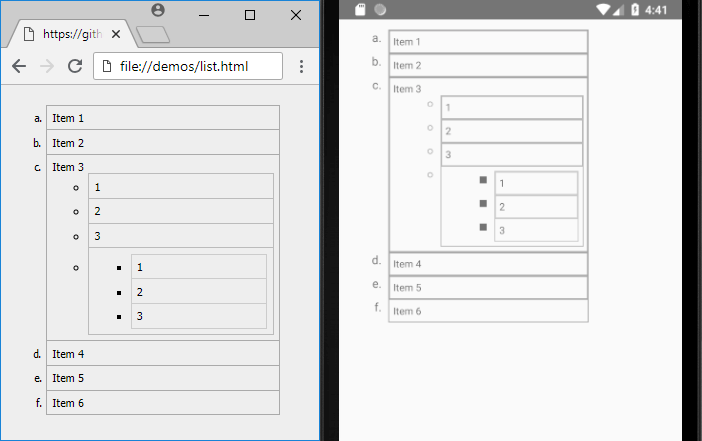
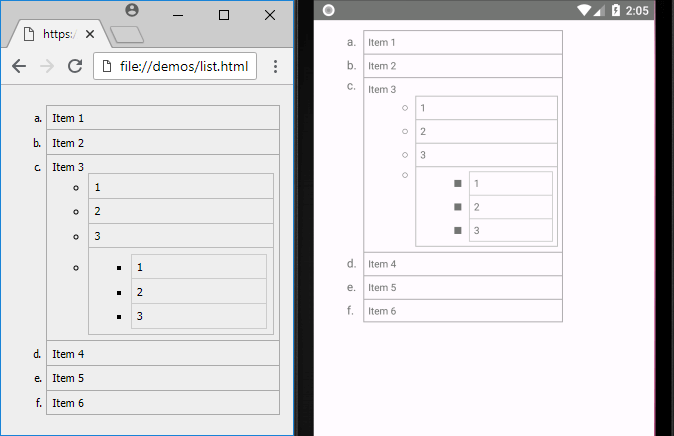
Baseline alignment detection for LinearLayout.

diff --git a/src/android/extension/widget/drawer.ts b/src/android/extension/widget/drawer.ts
@@ -1,4 +1,4 @@
-import { ExtensionResult, ObjectMap } from '../../../lib/types';
+import { ExtensionResult } from '../../../lib/types';
 import Extension from '../../../base/extension';
 import View from '../../view';
 import ViewList from '../../viewlist';
@@ -46,13 +46,9 @@ export default class Drawer extends Extension<T, U> {
         const node = (<T> this.node);
         node.depth = 0;
         node.documentRoot = true;
-        const optionsDrawer = Object.assign({}, this.options.drawer);
-        let menu = findNestedExtension(node, WIDGET_NAME.MENU);
-        if (menu != null) {
-            overwriteDefault(optionsDrawer, 'android', 'fitsSystemWindows', 'true');
-        }
-        const xml = controller.renderNodeStatic(VIEW_SUPPORT.DRAWER, node.depth, optionsDrawer, 'match_parent', 'match_parent', node, true);
-        if (menu != null) {
+        const options = Object.assign({}, this.options.drawer);
+        if (findNestedExtension(node, WIDGET_NAME.MENU) != null) {
+            overwriteDefault(options, 'android', 'fitsSystemWindows', 'true');
             this.createResourceTheme();
         }
         else {
@@ -62,8 +58,8 @@ export default class Drawer extends Extension<T, U> {
             navView.android('layout_gravity', optionsNavigation.android.layout_gravity);
             navView.android('layout_height', 'match_parent');
             navView.isolated = true;
-            menu = navView.element;
         }
+        const xml = controller.renderNodeStatic(VIEW_SUPPORT.DRAWER, node.depth, options, 'match_parent', 'match_parent', node, true);
         node.renderParent = true;
         node.excludeResource |= NODE_RESOURCE.FONT_STYLE;
         return { xml };
@@ -81,7 +77,7 @@ export default class Drawer extends Extension<T, U> {
         }
         const menu: string = optional(findNestedExtension(node, WIDGET_NAME.MENU), 'dataset.viewName');
         const headerLayout: string = optional(findNestedExtension(node, EXT_NAME.EXTERNAL), 'dataset.viewName');
-        const options: ObjectMap<any> = Object.assign({}, this.options.navigation);
+        const options: {} = Object.assign({}, this.options.navigation);
         if (menu !== '') {
             overwriteDefault(options, 'app', 'menu', `@menu/${menu}`);
         }

diff --git a/src/android/view.ts b/src/android/view.ts
@@ -479,6 +479,47 @@ export default class View extends Node {
         }
     }
 
+    public alignBaseline(nodes: T[]) {
+        let childIndex = -1;
+        nodes.some((item: T, index) => {
+            if (item.is(NODE_STANDARD.LINEAR) && item.android('baselineAlignedChildIndex') != null) {
+                childIndex = index;
+            }
+            else if (item.nodeType <= NODE_STANDARD.EDIT) {
+                switch (item.css('verticalAlign')) {
+                    case 'baseline':
+                    case 'sub':
+                    case 'super':
+                        if (childIndex === -1 && item.nodeType <= NODE_STANDARD.BUTTON) {
+                            childIndex = index;
+                        }
+                        break;
+                    default:
+                        childIndex = -1;
+                        return true;
+                }
+            }
+            return false;
+        });
+        if (childIndex !== -1) {
+            this.android('baselineAlignedChildIndex', childIndex.toString());
+            if (this.renderParent instanceof View && this.renderParent.is(NODE_STANDARD.LINEAR) && this.renderParent.horizontal) {
+                this.renderParent.alignBaseline(this.renderParent.renderChildren);
+            }
+        }
+    }
+
+    protected appendChild(node: T) {
+        super.appendChild(node);
+        switch (this.nodeName) {
+            case NODE_ANDROID.LINEAR:
+                if (this.horizontal) {
+                    this.alignBaseline(this.renderChildren);
+                }
+                break;
+        }
+    }
+
     get stringId() {
         return (hasValue(this.nodeId) ? `@+id/${this.nodeId}` : '');
     }

diff --git a/demos-dev/index.html b/demos-dev/index.html
@@ -565,18 +565,18 @@
                     </div>
                 </li>
                 <li>
-                    <label style="vertical-align: middle;">Conclusion:</label>
-                    <select name="person" class="null-allowed" style="width: 100px; vertical-align: middle;">
+                    <label>Conclusion:</label>
+                    <select name="person" class="null-allowed" style="width: 100px;">
                         <option value=""></option>
                         <option value="0">0</option>
                         <option value="1">1</option>
                     </select>
-                    <div style="vertical-align: middle;">
+                    <div>
                         <input id="c2" type="radio" name="personbirth" value="1" checked="checked" /><label for="c2">Birth</label>
                         <input id="c3" type="radio" name="personbirth" value="0" /><label for="c3">Death</label>
                         <input id="c4" type="checkbox" name="conclusionnone" value="1" /><label for="c4">None</label>
                     </div>
-                    <input type="button" value="Update" style="vertical-align: middle;" />
+                    <input type="button" value="Update" />
                 </li>
             </ul>
         </form>

diff --git a/demos/index.html b/demos/index.html
@@ -594,18 +594,18 @@
                     </div>
                 </li>
                 <li>
-                    <label style="vertical-align: middle;">Conclusion:</label>
-                    <select name="person" class="null-allowed" style="width: 100px; vertical-align: middle;">
+                    <label>Conclusion:</label>
+                    <select name="person" class="null-allowed" style="width: 100px;">
                         <option value=""></option>
                         <option value="0">0</option>
                         <option value="1">1</option>
                     </select>
-                    <div style="vertical-align: middle;">
+                    <div>
                         <input id="c2" type="radio" name="personbirth" value="1" checked="checked" /><label for="c2">Birth</label>
                         <input id="c3" type="radio" name="personbirth" value="0" /><label for="c3">Death</label>
                         <input id="c4" type="checkbox" name="conclusionnone" value="1" /><label for="c4">None</label>
                     </div>
-                    <input type="button" value="Update" style="vertical-align: middle;" />
+                    <input type="button" value="Update" />
                 </li>
             </ul>
         </form>

diff --git a/src/android/extension/widget/floatingactionbutton.ts b/src/android/extension/widget/floatingactionbutton.ts
@@ -20,8 +20,8 @@ export default class FloatingActionButton<T extends View> extends Button {
         const options = Object.assign({}, this.options[element.id]);
         const backgroundColor = parseRGBA(node.css('backgroundColor'), node.css('opacity'));
         overwriteDefault(options, 'android', 'backgroundTint', (backgroundColor.length > 0 ? `@color/${Resource.addColor(backgroundColor[0], backgroundColor[2])}` : '?attr/colorAccent'));
-        if (!includesEnum(node.excludeProcedure, NODE_PROCEDURE.ACCESSIBILITY)) {
-            overwriteDefault(options, 'android', 'focusable', 'true');
+        if (includesEnum(node.excludeProcedure, NODE_PROCEDURE.ACCESSIBILITY)) {
+            overwriteDefault(options, 'android', 'focusable', 'false');
         }
         let src = '';
         switch (element.tagName) {

diff --git a/src/base/node.ts b/src/base/node.ts
@@ -350,6 +350,10 @@ export default abstract class Node implements BoxModel {
         }
     }
 
+    protected appendChild(node: T) {
+        this.renderChildren.push(node);
+    }
+
     protected setDimensions() {
         const linear = this.linear;
         linear.width = linear.right - linear.left;
@@ -394,7 +398,7 @@ export default abstract class Node implements BoxModel {
 
     set renderParent(value: T | boolean) {
         if (value instanceof Node && value !== this && value.renderChildren.indexOf(this) === -1) {
-            value.renderChildren.push(this);
+            value.appendChild(this);
         }
         this._renderParent = value;
     }

diff --git a/src/android/extension/list.ts b/src/android/extension/list.ts
@@ -23,7 +23,6 @@ export default class ListAndroid<T extends View> extends List {
                     node.depth + node.renderDepth, {
                         android: {
                             gravity: parseRTL('right'),
-                            layout_gravity: 'fill',
                             layout_columnWeight: '0',
                             [parseRTL('layout_marginRight')]: formatDimen(node.tagName, parseRTL('margin_right'), '8px'),
                             text: (listStyle !== '0' ? listStyle : '')

diff --git a/src/lib/constants.ts b/src/lib/constants.ts
@@ -1,13 +1,13 @@
 export enum NODE_STANDARD {
     NONE = 0,
     TEXT,
-    EDIT,
     IMAGE,
     SELECT,
     RANGE,
     CHECKBOX,
     RADIO,
     BUTTON,
+    EDIT,
     LINE,
     SPACE,
     FRAME,

diff --git a/README.md b/README.md
@@ -118,7 +118,7 @@ Constraint chain is available as a setting since flexbox does not always support
 
 Most layout issues are probably due to layout_width and layout_height not being set correctly. Changing wrap_content to match_parent and vice versa or setting the actual width and height will fix most problems. HTML has a very flexible layout system built for very wide screens which makes it difficult sometimes to convert them for mobile devices. Using a table to create your layouts is recommended if you are not experienced with HTML.
 
-Android defaults their controls to vertical align "top" whereas HTML defaults to "baseline" which can cause the vertical alignment to be skewed. If you want them to be look similar vertically then you might have to explicity set the CSS property "vertical-align" to the nearest position "middle" as the "baseline" setting is only partially available in Android.
+Android defaults their controls to vertical align "top" whereas HTML defaults to "baseline" which sometimes causes the vertical alignment to be skewed. If you want them to be look similar vertically then you might have to explicity set the CSS property "vertical-align" to the nearest position "middle" as the "baseline" setting is only partially available in Android.
 
 ### Standard
 
@@ -483,6 +483,7 @@ The attributes "include" and "include-end" can only be applied to elements which
                 style="@style/Label" />
             <LinearLayout
                 android:id="@+id/linearlayout_1"
+                android:baselineAlignedChildIndex="0"
                 android:layout_height="wrap_content"
                 android:layout_width="wrap_content"
                 android:orientation="horizontal">
@@ -534,6 +535,7 @@ The attributes "include" and "include-end" can only be applied to elements which
                 style="@style/Label" />
             <LinearLayout
                 android:id="@+id/linearlayout_2"
+                android:baselineAlignedChildIndex="1"
                 android:layout_height="wrap_content"
                 android:layout_width="wrap_content"
                 android:orientation="horizontal">
@@ -694,6 +696,7 @@ The attributes "include" and "include-end" can only be applied to elements which
                 style="@style/Label" />
             <LinearLayout
                 android:id="@+id/linearlayout_3"
+                android:baselineAlignedChildIndex="0"
                 android:layout_height="wrap_content"
                 android:layout_width="wrap_content"
                 android:orientation="horizontal">
@@ -814,6 +817,7 @@ The attributes "include" and "include-end" can only be applied to elements which
                 style="@style/Label" />
             <LinearLayout
                 android:id="@+id/linearlayout_4"
+                android:baselineAlignedChildIndex="0"
                 android:layout_height="wrap_content"
                 android:layout_width="wrap_content"
                 android:orientation="horizontal">
@@ -864,6 +868,7 @@ The attributes "include" and "include-end" can only be applied to elements which
                 style="@style/Label" />
             <LinearLayout
                 android:id="@+id/linearlayout_5"
+                android:baselineAlignedChildIndex="0"
                 android:layout_height="wrap_content"
                 android:layout_width="wrap_content"
                 android:orientation="horizontal">
@@ -927,6 +932,7 @@ The attributes "include" and "include-end" can only be applied to elements which
                 style="@style/Label" />
             <LinearLayout
                 android:id="@+id/linearlayout_6"
+                android:baselineAlignedChildIndex="1"
                 android:layout_height="wrap_content"
                 android:layout_width="wrap_content"
                 android:orientation="horizontal">
@@ -967,7 +973,6 @@ The attributes "include" and "include-end" can only be applied to elements which
                 android:layout_width="match_parent" />
             <TextView
                 android:id="@+id/textview_19"
-                android:layout_gravity="center_vertical"
                 android:layout_height="wrap_content"
                 android:layout_marginEnd="@dimen/label_margin_end"
                 android:layout_width="@dimen/label_width"
@@ -976,6 +981,7 @@ The attributes "include" and "include-end" can only be applied to elements which
                 style="@style/Label" />
             <LinearLayout
                 android:id="@+id/linearlayout_7"
+                android:baselineAlignedChildIndex="1"
                 android:layout_height="wrap_content"
                 android:layout_width="wrap_content"
                 android:orientation="horizontal">
@@ -983,7 +989,6 @@ The attributes "include" and "include-end" can only be applied to elements which
                     android:id="@+id/person"
                     android:background="@drawable/select_hour"
                     android:entries="@array/typeofentry_array"
-                    android:layout_gravity="center_vertical"
                     android:layout_height="wrap_content"
                     android:layout_width="@dimen/select_width_2"
                     android:minWidth="@dimen/select_minwidth"
@@ -991,7 +996,7 @@ The attributes "include" and "include-end" can only be applied to elements which
                     style="@style/Select" />
                 <LinearLayout
                     android:id="@+id/linearlayout_8"
-                    android:layout_gravity="center_vertical"
+                    android:baselineAlignedChildIndex="1"
                     android:layout_height="wrap_content"
                     android:layout_marginStart="@dimen/div_margin_start"
                     android:layout_width="wrap_content"
@@ -1023,7 +1028,6 @@ The attributes "include" and "include-end" can only be applied to elements which
                 <Button
                     android:id="@+id/button_6"
                     android:background="@drawable/button_button_1"
-                    android:layout_gravity="center_vertical"
                     android:layout_height="wrap_content"
                     android:layout_marginStart="@dimen/button_margin_start"
                     android:layout_width="wrap_content"
